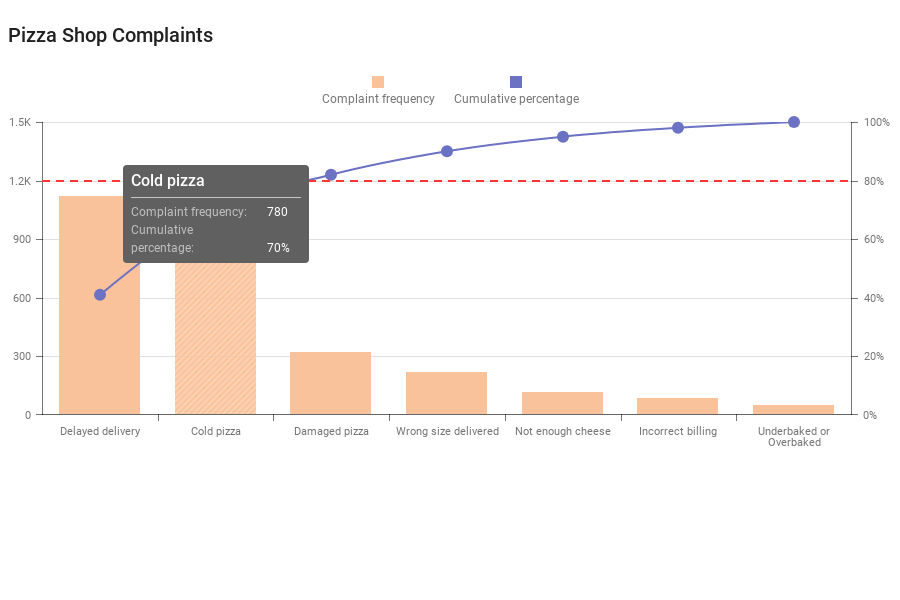
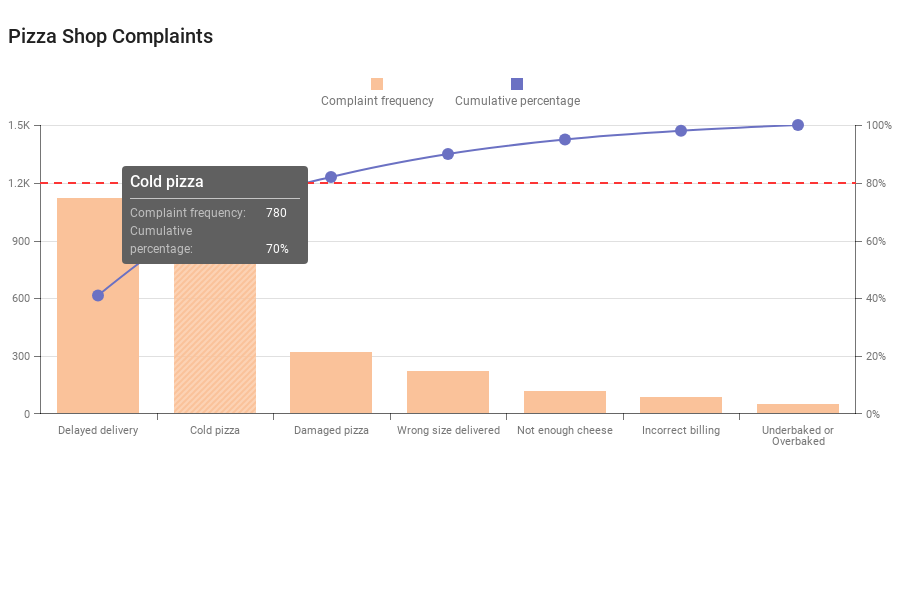
try wait font

diff --git a/apps/demos/testing/common.test.js b/apps/demos/testing/common.test.js
@@ -351,13 +351,13 @@ const SKIPPED_TESTS = {
         }
 
         // eslint-disable-next-line no-promise-executor-return
-        // await ClientFunction(() => new Promise((resolve) => waitWebFont('test text', 400).then(() => {
-        //   console.log('Font waiting was resolved');
-        //   resolve();
-        // }, () => {
-        //   console.log('Font waiting was rejected');
-        //   resolve();
-        // })));
+        await ClientFunction(() => new Promise((resolve) => waitWebFont('test text', 400).then(() => {
+          console.log('Font waiting was resolved');
+          resolve();
+        }, () => {
+          console.log('Font waiting was rejected');
+          resolve();
+        })));
 
         if (testCodeSource) {
           await execCode(testCodeSource);
@@ -396,17 +396,7 @@ const SKIPPED_TESTS = {
             return;
           }
 
-          const comparisonResult = await compareScreenshot(t, `${testName}${getThemePostfix(testTheme)}.png`, undefined, {
-            looksSameComparisonOptions: {
-              strict: false,
-              tolerance: 20,
-              ignoreAntialiasing: true,
-              antialiasingTolerance: 20,
-              ignoreCaret: true,
-            },
-            // eslint-disable-next-line spellcheck/spell-checker
-            textDiffTreshold: 0.2,
-          });
+          const comparisonResult = await compareScreenshot(t, `${testName}${getThemePostfix(testTheme)}.png`, undefined, comparisonOptions);
 
           const consoleMessages = await t.getBrowserConsoleMessages();
           if (!comparisonResult) {
